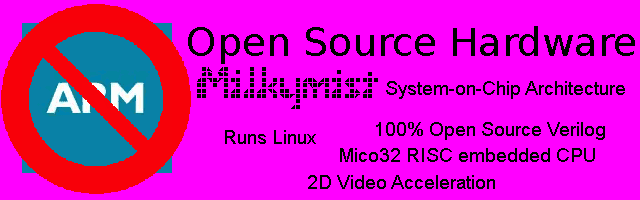
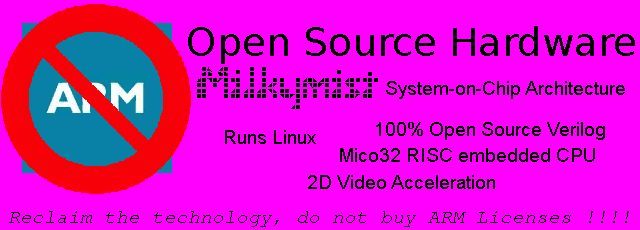
Better picture

diff --git a/src/plasma.c b/src/plasma.c
@@ -12,13 +12,13 @@
 #include "noarm.h"
 
 #define NOARM_W 640
-#define NOARM_H 200
+#define NOARM_H 230
 
 #define CHROMAKEY  0xf81f
 #define HMESHLAST  64
 #define VMESHLAST  48
 
-#define DURATION 700
+#define DURATION 630
 
 static int frames;
 
